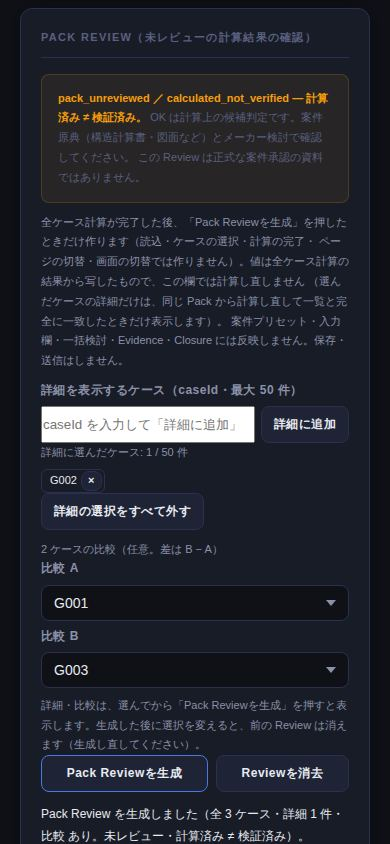
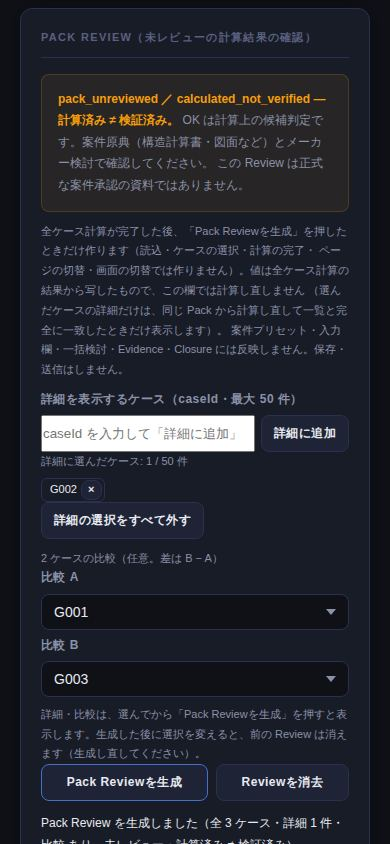
RF-30-01: refresh the Pack Review after-screenshots
Re-captured from e151693 (readable trust text and summary labels); the
before images (main) are unchanged. Synthetic fixtures and a synthetic
2000-case Pack only.

Claude-Session: https://claude.ai/code/session_01YHDjzFMCSE5H8yBB743Ps9

Changed region(s): [[0.0923, 0.0924, 0.8923, 1.0], [0.8308, 0.7085, 0.8615, 0.7393], [0.5231, 0.6469, 0.5538, 0.6777]]

diff --git a/docs/evidence/s3-b3b2-b3/README.md b/docs/evidence/s3-b3b2-b3/README.md
@@ -1,7 +1,8 @@
 # S3-B3B2-B3 Pack Review の画面 — Before / After（合成のスクリーンショット）
 
 S3-B3B2-B3（Project Pack 画面への Pack Review の接続）のレビュー用の画像です。Before は main `5c5a352` の Project Pack 画面
-（Pack Review の欄はまだ無い）、After はこの branch の `b3e1745` を、Chromium で `file://` から開いて撮りました。
+（Pack Review の欄はまだ無い）、After はこの branch の RF-30-01 の commit `e151693`（信頼の文言の本文を 12px・
+--text2、集計の見出しを --text2 にした後）を、Chromium で `file://` から開いて撮りました。Before の画像は main のままなので撮り直していません。
 
 - 値はすべて合成です（`tests/fixtures/project-pack/` の合成 fixture と `tests/support/synthetic-pack.js` の合成 Pack）。実案件のデータ・資料は含みません。
 - 画面の内容は撮った時点の index.html のものです。計算の値・Evidence / Closure の判定の根拠ではありません（計算済み ≠ 検証済み。Review は正式な案件承認の資料ではありません）。
